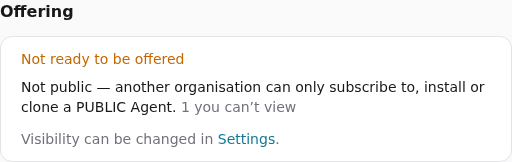
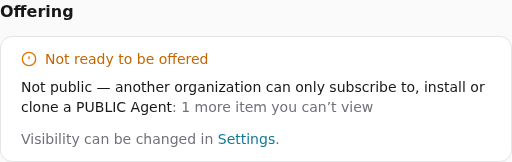
fix: address UX and BLIND review findings on the Offering section (#1850)
UX (#1859, AT0.5812.8) requested changes; the BLIND seat (AT0.5812.6)
approved conditionally with confirmations and P3s. Both converged on the
same rendering nits, fixed together:

- "organisation" -> "organization" in all five new strings: the portal
  spells it Organization (the Visibility row on the same screen did), so
  the section showed two spellings at once (UX P2-1).
- The hidden-subject count no longer dangles: "N you can't view" becomes
  "N more item(s) you can't view", carrying its own noun (UX P2-2).
- Named subjects separate from the sentence with ": " and the counts
  join with " · ", instead of bare adjacent spans; the trailing period
  yields to the colon so a line reads "A linked memory is encrypted:
  Team roles · +2 more" (UX P3-1, BLIND P3-2).
- Reason sentences pluralise with the server's count — "3 linked
  memories are encrypted" — instead of always singular (BLIND P3-3).
- Not-ready gets an amber state icon mirroring the ready check, so the
  state is not text-only (UX P3-2).
- The reason each is unkeyed: a duplicate code key would be a Svelte
  runtime error and nothing here reorders (BLIND P3-1).
- AgentOfferReasonCode is an open union (Known | (string & {})) matching
  the runtime behaviour the fallback renders for (BLIND P3-6).
- New pins: the Settings pointer appears exactly with AGENT_NOT_PUBLIC,
  and ready wins over a contradictory non-empty reasons array (BLIND
  P3-5). Evidence re-captured for the new copy; README attributes the
[…]

diff --git a/src/routes/app/agents/[id]/+page.svelte b/src/routes/app/agents/[id]/+page.svelte
@@ -531,17 +531,42 @@
   // code, one line per reason in the server's (clone refusal's) order. The
   // fallback prints the raw code so a new server code is VISIBLE, never
   // swallowed. Subjects render as names only — the contract exposes no id or
-  // URN to link (see AgentOfferSubject in $lib/types).
-  const offerReasonText = (code: string): string => {
-    switch (code) {
-      case 'AGENT_NOT_PUBLIC': return t('agent.offer.reason.not-public', 'Not public — another organisation can only subscribe to, install or clone a PUBLIC Agent.');
-      case 'AGENT_RETIRED': return t('agent.offer.reason.retired', 'This Agent is retired.');
-      case 'CLONE_LINKED_MEMORY_ENCRYPTED': return t('agent.offer.reason.memory-encrypted', 'A linked memory is encrypted.');
-      case 'CLONE_LINKED_MEMORY_UNREADABLE': return t('agent.offer.reason.memory-unreadable', 'A linked memory is not readable by another organisation.');
-      case 'CLONE_BASE_UNUSABLE': return t('agent.offer.reason.base-unusable', 'The base Agent can’t be used by another organisation.');
-      case 'CLONE_IMPORT_UNUSABLE': return t('agent.offer.reason.import-unusable', 'An imported Agent can’t be used by another organisation.');
-      default: return t('agent.offer.reason.unknown', 'Blocked: {code}', { code });
+  // URN to link (see AgentOfferSubject in $lib/types). "organization" is the
+  // portal's established spelling (the Visibility row says Organization); the
+  // count pluralises the subject-carrying reasons (UX #1859: a sentence about
+  // three memories should not say "a memory").
+  const offerReasonText = (reason: { code: string; count: number }): string => {
+    const one = reason.count === 1;
+    switch (reason.code) {
+      case 'AGENT_NOT_PUBLIC': return t('agent.offer.reason.not-public', 'Not public — another organization can only subscribe to, install or clone a PUBLIC Agent');
+      case 'AGENT_RETIRED': return t('agent.offer.reason.retired', 'This Agent is retired');
+      case 'CLONE_LINKED_MEMORY_ENCRYPTED': return one
+        ? t('agent.offer.reason.memory-encrypted.one', 'A linked memory is encrypted')
+        : t('agent.offer.reason.memory-encrypted.many', '{count} linked memories are encrypted', { count: reason.count });
+      case 'CLONE_LINKED_MEMORY_UNREADABLE': return one
+        ? t('agent.offer.reason.memory-unreadable.one', 'A linked memory is not readable by another organization')
+        : t('agent.offer.reason.memory-unreadable.many', '{count} linked memories are not readable by another organization', { count: reason.count });
+      case 'CLONE_BASE_UNUSABLE': return one
+        ? t('agent.offer.reason.base-unusable.one', 'The base Agent can’t be used by another organization')
+        : t('agent.offer.reason.base-unusable.many', '{count} base Agents can’t be used by another organization', { count: reason.count });
+      case 'CLONE_IMPORT_UNUSABLE': return one
+        ? t('agent.offer.reason.import-unusable.one', 'An imported Agent can’t be used by another organization')
+        : t('agent.offer.reason.import-unusable.many', '{count} imported Agents can’t be used by another organization', { count: reason.count });
+      default: return t('agent.offer.reason.unknown', 'Blocked: {code}', { code: reason.code });
     }
+  };
+  // The names and counts after a reason sentence, " · "-separated: names the
+  // server chose to show, then the cap overflow, then the subjects even the
+  // manager may not read (counts only — the hidden line carries its own noun,
+  // never a dangling "N you can't view"; UX #1859).
+  const offerReasonDetail = (reason: { subjects: Array<{ name: string }>; omittedByCap: number; hiddenByAccess: number }): string => {
+    const parts: string[] = [];
+    if (reason.subjects.length > 0) parts.push(reason.subjects.map((s) => s.name).join(', '));
+    if (reason.omittedByCap > 0) parts.push(t('agent.offer.more', '+{count} more', { count: reason.omittedByCap }));
+    if (reason.hiddenByAccess > 0) parts.push(reason.hiddenByAccess === 1
+      ? t('agent.offer.hidden.one', '1 more item you can’t view')
+      : t('agent.offer.hidden.many', '{count} more items you can’t view', { count: reason.hiddenByAccess }));
+    return parts.join(' · ');
   };
   const offerNotPublic = $derived((agent.offerReadiness?.reasons ?? []).some((r) => r.code === 'AGENT_NOT_PUBLIC'));
 
@@ -956,26 +981,21 @@
                 <svg aria-hidden="true" width="16" height="16" viewBox="0 0 24 24" fill="none" stroke="currentColor" stroke-width="2" class="mt-0.5 shrink-0 text-emerald-600 dark:text-emerald-400"><path d="M20 6 9 17l-5-5"></path></svg>
                 <div>
                   <p class="text-sm font-medium text-emerald-700 dark:text-emerald-400">{t('agent.offer.ready', 'Ready to be offered')}</p>
-                  <p class="mt-0.5 text-sm text-zinc-500">{t('agent.offer.ready.detail', 'Another organisation could subscribe to, install and clone this Agent as it stands.')}</p>
+                  <p class="mt-0.5 text-sm text-zinc-500">{t('agent.offer.ready.detail', 'Another organization could subscribe to, install and clone this Agent as it stands.')}</p>
                 </div>
               </div>
             {:else}
               <div class="px-5 py-3">
-                <p class="text-sm font-medium text-amber-700 dark:text-amber-400">{t('agent.offer.not-ready', 'Not ready to be offered')}</p>
+                <div class="flex items-start gap-2">
+                  <!-- Amber state icon mirrors the ready check: the words carry the meaning, the shape matches it (UX #1859). -->
+                  <svg aria-hidden="true" width="16" height="16" viewBox="0 0 24 24" fill="none" stroke="currentColor" stroke-width="2" class="mt-0.5 shrink-0 text-amber-600 dark:text-amber-400"><circle cx="12" cy="12" r="10"></circle><line x1="12" y1="8" x2="12" y2="12"></line><line x1="12" y1="16" x2="12.01" y2="16"></line></svg>
+                  <p class="text-sm font-medium text-amber-700 dark:text-amber-400">{t('agent.offer.not-ready', 'Not ready to be offered')}</p>
+                </div>
                 <ul class="mt-2 space-y-1">
-                  {#each agent.offerReadiness.reasons as reason (reason.code)}
-                    <li class="text-sm text-zinc-900 dark:text-white">
-                      {offerReasonText(reason.code)}
-                      {#if reason.subjects.length > 0}
-                        <span class="text-zinc-500">{reason.subjects.map((s) => s.name).join(', ')}</span>
-                      {/if}
-                      {#if reason.omittedByCap > 0}
-                        <span class="text-zinc-500">{t('agent.offer.more', '+{count} more', { count: reason.omittedByCap })}</span>
-                      {/if}
-                      {#if reason.hiddenByAccess > 0}
-                        <span class="text-zinc-500">{t('agent.offer.hidden', '{count} you can’t view', { count: reason.hiddenByAccess })}</span>
-                      {/if}
-                    </li>
+                  <!-- Unkeyed: the server emits one reason per code, but a duplicate code key would be a Svelte runtime error, and nothing here reorders (BLIND #1859). -->
+                  {#each agent.offerReadiness.reasons as reason}
+                    {@const detail = offerReasonDetail(reason)}
+                    <li class="text-sm text-zinc-900 dark:text-white">{offerReasonText(reason)}{#if detail}<span class="text-zinc-500">: {detail}</span>{:else}.{/if}</li>
                   {/each}
                 </ul>
                 {#if offerNotPublic}

diff --git a/src/routes/app/agents/[id]/offer-readiness.client.test.ts b/src/routes/app/agents/[id]/offer-readiness.client.test.ts
@@ -42,7 +42,7 @@ describe('agent offer readiness (#1850)', () => {
       offerReadiness: {
         ready: false,
         reasons: [
-          { code: 'AGENT_NOT_PUBLIC', count: 1, subjects: [], omittedByCap: 0, hiddenByAccess: 0 },
+          { code: 'AGENT_NOT_PUBLIC', count: 1, subjects: [], omittedByCap: 0, hiddenByAccess: 1 },
           {
             code: 'CLONE_LINKED_MEMORY_ENCRYPTED',
             count: 3,
@@ -64,19 +64,19 @@ describe('agent offer readiness (#1850)', () => {
     expect(text).toContain('Not ready to be offered');
     // Server order preserved: NOT_PUBLIC before the encrypted memory before the import.
     const notPublic = text.indexOf('only subscribe to, install or clone a PUBLIC Agent');
-    const encrypted = text.indexOf('A linked memory is encrypted');
-    const imports = text.indexOf('An imported Agent can’t be used by another organisation');
+    const encrypted = text.indexOf('3 linked memories are encrypted');
+    const imports = text.indexOf('22 imported Agents can’t be used by another organization');
     expect(notPublic).toBeGreaterThan(-1);
     expect(encrypted).toBeGreaterThan(notPublic);
     expect(imports).toBeGreaterThan(encrypted);
-    // Named subjects appear (the server names only what the manager may read).
-    expect(text).toContain('Team roles');
-    expect(text).toContain('Alpha role');
-    expect(text).toContain('Beta role');
-    // Hidden and capped subjects are counts only.
-    expect(text).toContain('2 you can’t view');
+    // Named subjects appear after a separator (the server names only what the manager may read).
+    expect(text).toContain('3 linked memories are encrypted: Team roles');
+    expect(text).toContain('Alpha role, Beta role');
+    // Hidden and capped subjects are counts only — and the hidden line carries its own noun (UX #1859).
+    expect(text).toContain('2 more items you can’t view');
     expect(text).toContain('+2 more');
-    expect(text).toContain('18 you can’t view');
+    expect(text).toContain('18 more items you can’t view');
+    expect(text).toContain('1 more item you can’t view');
   });
 
   it('acceptance 3 (hard pin): null offerReadiness renders nothing — no section, no state line', async () => {
@@ -104,5 +104,46 @@ describe('agent offer readiness (#1850)', () => {
     });
     expect(section(m.target)).not.toBeNull();
     expect(m.target.textContent).toContain('Blocked: SOME_FUTURE_CODE');
+  });
+
+  // The Settings pointer is the section's only interactive element (BLIND #1859):
+  // it exists exactly when AGENT_NOT_PUBLIC is among the reasons, and a singular
+  // count keeps the singular sentence.
+  it('the Settings pointer appears only with AGENT_NOT_PUBLIC; singular counts keep singular copy', async () => {
+    const withNotPublic = await mountAgent({
+      offerReadiness: {
+        ready: false,
+        reasons: [
+          { code: 'AGENT_NOT_PUBLIC', count: 1, subjects: [], omittedByCap: 0, hiddenByAccess: 0 },
+          { code: 'CLONE_LINKED_MEMORY_ENCRYPTED', count: 1, subjects: [{ name: 'Team roles' }], omittedByCap: 0, hiddenByAccess: 0 },
+        ],
+      },
+    });
+    const text = withNotPublic.target.textContent ?? '';
+    expect(text).toContain('A linked memory is encrypted: Team roles');
+    expect(section(withNotPublic.target)?.querySelector('button')).not.toBeNull();
+    expect(text).toContain('Visibility can be changed in');
+    await withNotPublic.unmount();
+
+    const withoutNotPublic = await mountAgent({
+      offerReadiness: {
+        ready: false,
+        reasons: [{ code: 'AGENT_RETIRED', count: 1, subjects: [], omittedByCap: 0, hiddenByAccess: 0 }],
+      },
+    });
+    expect(withoutNotPublic.target.textContent).not.toContain('Visibility can be changed in');
+  });
+
+  // The UI trusts `ready` (the server computes it from the same blockers); a
+  // contradictory payload still renders ready, not a reason list (BLIND #1859).
+  it('ready wins: a non-empty reasons array alongside ready renders the ready state', async () => {
+    const m = await mountAgent({
+      offerReadiness: {
+        ready: true,
+        reasons: [{ code: 'AGENT_RETIRED', count: 1, subjects: [], omittedByCap: 0, hiddenByAccess: 0 }],
+      },
+    });
+    expect(m.target.textContent).toContain('Ready to be offered');
+    expect(m.target.textContent).not.toContain('This Agent is retired');
   });
 });

diff --git a/src/lib/types.ts b/src/lib/types.ts
@@ -133,8 +133,18 @@ export interface AgentOfferSubject {
   name: string;
 }
 
+/** Every code the server emits today. Unknown codes stay possible at runtime — the UI renders them raw — so the union is open, not closed. */
+export type AgentOfferReasonCode =
+  | 'AGENT_NOT_PUBLIC'
+  | 'AGENT_RETIRED'
+  | 'CLONE_LINKED_MEMORY_ENCRYPTED'
+  | 'CLONE_LINKED_MEMORY_UNREADABLE'
+  | 'CLONE_BASE_UNUSABLE'
+  | 'CLONE_IMPORT_UNUSABLE'
+  | (string & {});
+
 export interface AgentOfferReason {
-  code: 'AGENT_NOT_PUBLIC' | 'AGENT_RETIRED' | 'CLONE_LINKED_MEMORY_ENCRYPTED' | 'CLONE_LINKED_MEMORY_UNREADABLE' | 'CLONE_BASE_UNUSABLE' | 'CLONE_IMPORT_UNUSABLE';
+  code: AgentOfferReasonCode;
   /** Every blocked subject. subjects + omittedByCap + hiddenByAccess === count. */
   count: number;
   subjects: AgentOfferSubject[];

diff --git a/docs/evidence/1850/README.md b/docs/evidence/1850/README.md
@@ -1,18 +1,12 @@
 # portal#1850 — Offering section evidence
 
-Real signed-in captures of the Agent page's new Offering section, driven through
-the #792 dev login against hadron-server main (offerReadiness per
-hadron-server#2246, hrn:node:hadronmemory.com:specs:cor:dmo:050:19). Manager is the signed-in user; the Agent is
-`Gloria QA Agent`, flipped PERSONAL→PUBLIC in a throwaway clone of the dev DB to
-capture both states. Chromium 1280px, element captures of the section.
+Author's signed-in captures of the section (element shots, Chromium 1280px), driven through the #792 dev login against hadron-server main with `offerReadiness` (hadron-server#2246). Manager is the signed-in user; the Agent is `Gloria QA Agent` from the synthetic seed (`alice@platform-co.test`), flipped PERSONAL→PUBLIC in a throwaway clone of the dev DB to capture both states. Independent verification is the seat reviewers' own runs, not these captures.
 
 | State | Light | Dark |
 |---|---|---|
 | Not ready (PERSONAL) | [Image](notready-light.png) | [Image](notready-dark.png) |
 | Ready (PUBLIC) | [Image](ready-light.png) | [Image](ready-dark.png) |
 
-The not-ready capture shows the AGENT_NOT_PUBLIC reason with a hidden-subject
-count line ("1 you can't view" — counts only, never named) and the pointer to
-the existing Settings tab. The non-manager case renders no section at all, so it
-has no image by definition (acceptance 3); it was verified live with a no-role
-reader and is pinned in `offer-readiness.client.test.ts`.
+The not-ready capture shows the AGENT_NOT_PUBLIC reason with a hidden-subject count line (counts only, never named) and the pointer to the existing Settings tab. The non-manager case renders no section at all, so it has no image by definition (acceptance 3); the author verified it live with a no-role reader and it is pinned in `offer-readiness.client.test.ts`.
+
+Spec: `hrn:node:hadronmemory.com:specs:cor:dmo:050:19`.
